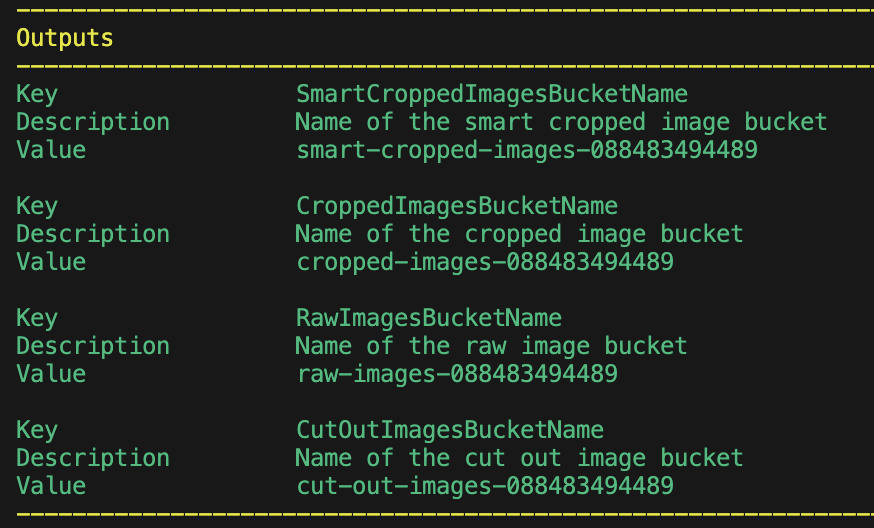
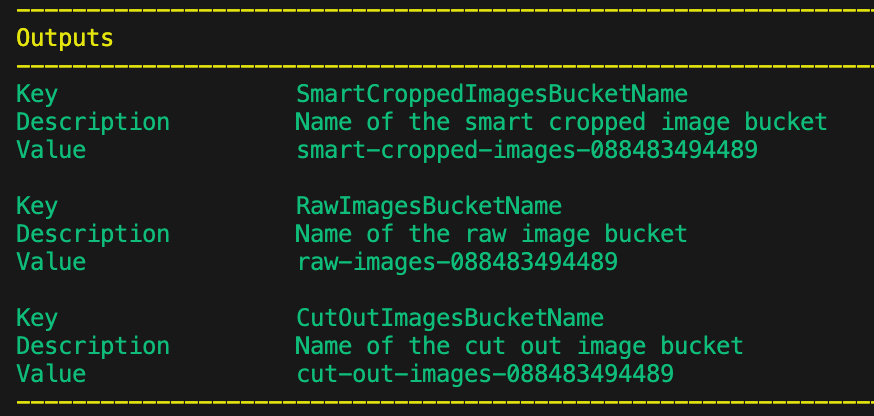
Updated README

Changed region(s): [[0.0, 0.0625, 1.0, 1.0], [0.0, 0.0, 1.0, 0.0312]]

diff --git a/README.md b/README.md
@@ -1,5 +1,5 @@
 # Automated image processing at scale
-This application uses AWS Serverless and Adobe API endpoints to automate image manipulation at scale. It was designed to process player photos for sporting industries but can be modified for many other uses. When images are dropped into the raw-image bucket they are sent to Adobe to have the background removed and run an auto crop process to reduce the image to just the subject. We then use Rekognition to identify the face of the player and crop the photo according to the desired height of the body. The result is uniform sizing across all the images.
+This application uses AWS Serverless and Adobe API endpoints to automate image manipulation at scale. It was designed to process player photos for sporting industries but can be modified for many other uses. When images are dropped into the raw-image bucket they are sent to Adobe to have the background removed. We then use Rekognition to identify the facial landmarks of the player and crop the photo according to the desired height of the body. The result is uniform sizing across all the images.
 
 The entire process is event driven. When images are furst dropped in the RawImagesBucket, this triggers the CutOutStateMachine to call the Adobe API to process the image. The updated image is then dropped in the CutOutImagesBucket which triggers the next step and so on.
 
@@ -18,7 +18,6 @@ The entire process is event driven. When images are furst dropped in the RawImag
 
 **Adobe APIs used**
 * Adobe Photoshop CutOut API
-* Adobe Photoshop Crop API
 
 ## Preparing to install
 
@@ -36,14 +35,21 @@ The entire process is event driven. When images are furst dropped in the RawImag
 1. Retrieve the ClientId, Client Secret, and Organization ID from the Credentials (Oauth server to server) section
 
 **AWS**
-1. Create a secret in AWS Secrets Manager called `aip/oauth` with the following information:
-    ```
-    {
-        "client_id":"<Adobe client id>>",
-        "client_secret":"<Adobe client secret",
-        "org_id":"<Adobe org id>"
-    }
-    ```
+1. In the Amazon EventBridge console, create a new connection with the following information.
+    * Authorization type: OAuth Client Credentials
+    * Authorization endpoint: https://ims-na1.adobelogin.com/ims/token/v3
+    * Http method: POST
+    * Client Id: `Client ID from Adobe`
+    * Client Secret: `Client Secret from Adobe`
+    * Under *Invocation Http Parameters*
+        * x-api-key (Secret header): `Client ID from Adobe`
+        * x-gw-ims-org-id (Secret header): `Organization ID from Adobe`
+    * Under *OAuth Http Parameters*
+        * grant_type (Body field): client credentials
+        * scope (Body field): openid, AdobeID, read_organizations
+
+    *Once you have an authorized connection, copy the ARN for the next steps*
+
 1. From within the root of the project, build the stack using AWS SAM (--use-container tells SAM to build using containers instead of you having to configure node and python.)
     ```
     sam build --use-container
@@ -54,6 +60,7 @@ The entire process is event driven. When images are furst dropped in the RawImag
     ```
     * Choose your desired stack name
     * Choose your region
+    * Enter the ARN from your connection
     * take defaults for the rest
 
 ## Testing the service
@@ -68,7 +75,6 @@ The stack will also output the list of buckets for your files. It will look simi
 Copy as many raw images into the RawImagesBucket as you like. Each one will run through the entire process.
 
 1. Background removed: saved to CutOutImagesBucket
-1. Image cropped: saved to the CroppedImagesBucket
 1. Image smart cropped: saved to the SmartCroppedBucket
 
 ## Tear down
